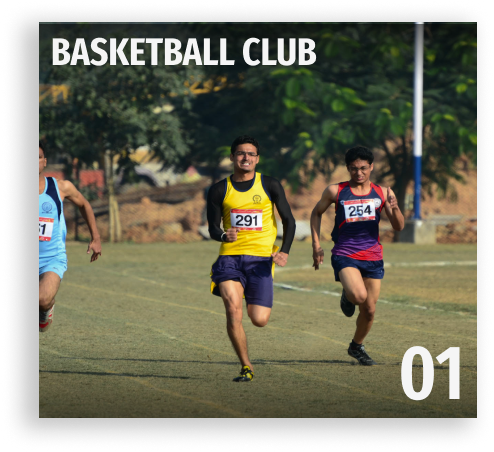
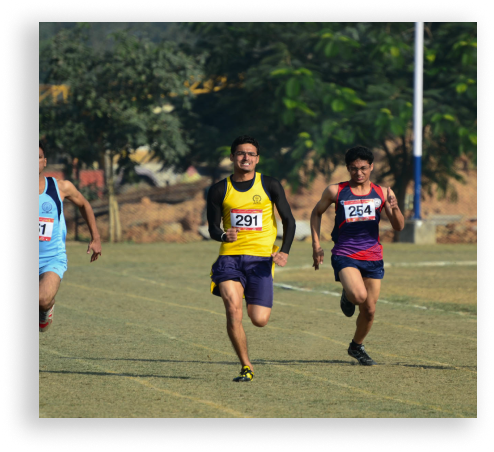
club animation

Changed region(s): [[0.0607, 0.7434, 0.9717, 0.9292], [0.0607, 0.031, 0.9717, 0.1549]]

diff --git a/src/components/animation.js b/src/components/animation.js
@@ -29,7 +29,7 @@ function Animation() {
         <img  src={bg} className=" bg"></img>
       </div>
      <div class="flex gap-8 absolute  textbox ">
-       <motion.div 
+       <motion.div className="relative group"
        initial={{opacity:0, x:-100,}} 
          whileInView={{opacity:1,x:0}}    
          transition={{
@@ -40,6 +40,13 @@ function Animation() {
          whileHover={{scale:1.05}}
          viewport={{amount:0.25}}> 
        <img src={hori} alt="basket" class=" z-12"></img>
+       <motion.div class=" absolute  duration-500  group-hover:opacity-100 opacity-0  text-white font-sans font-bold name"
+         transition={{type:'spring'}}>
+          BASKETBALL CLUB
+        </motion.div>
+        <div class=" absolute  text-white font-bold font-sans group-hover:opacity-100 opacity-0 duration-500 number">
+          01
+        </div>
       </motion.div>
       <motion.div initial={{opacity:0, x:100,}} 
          whileInView={{opacity:1,x:0}}    
@@ -66,7 +73,7 @@ function Animation() {
         <img  src={bg} className=" bg"></img>
       </div>
      <div class="flex gap-8 absolute  textbox flex-row-reverse">
-       <motion.div 
+       <motion.div className="group relative" 
        initial={{opacity:0, x:100,}} 
          whileInView={{opacity:1,x:0}}    
          transition={{
@@ -77,6 +84,13 @@ function Animation() {
          whileHover={{scale:1.05}}
          viewport={{amount:0.25}}> 
        <img src={hori} alt="basket" class=" z-12"></img>
+       <motion.div class="name absolute top-7 duration-500 left-10 group-hover:opacity-100 opacity-0  text-white font-sans font-bold"
+         transition={{type:'spring'}}>
+          BASKETBALL CLUB
+        </motion.div>
+        <div class=" absolute  text-white font-bold font-sans group-hover:opacity-100 opacity-0 duration-500 number">
+          01
+        </div>
       </motion.div>
       <motion.div initial={{opacity:0, x:-100,}} 
          whileInView={{opacity:1,x:0}}    

diff --git a/src/components/animation.css b/src/components/animation.css
@@ -69,3 +69,16 @@
     
     
     }
+
+
+    .name{
+      top:2vh;
+      left:2.5vw;
+      font-size:2vw;
+    }
+
+    .number{
+      top:18vw;
+      right:2vw;
+      font-size:2vw;
+    }
